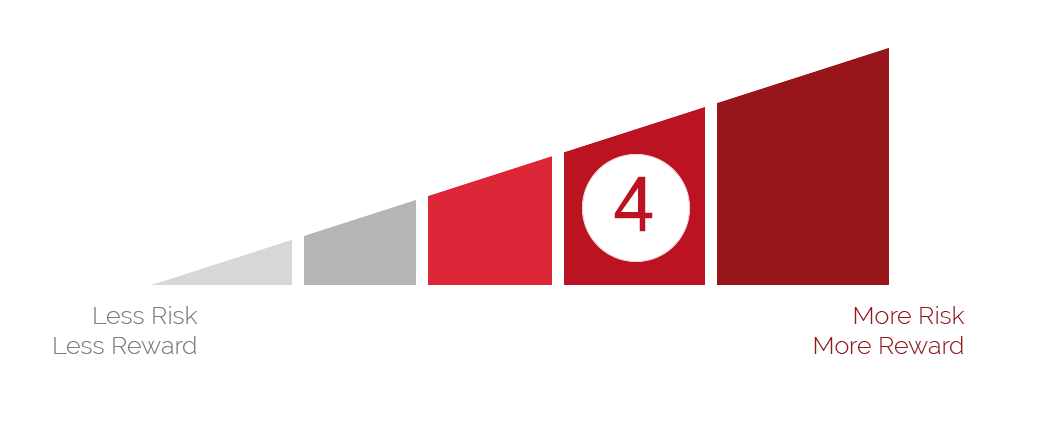
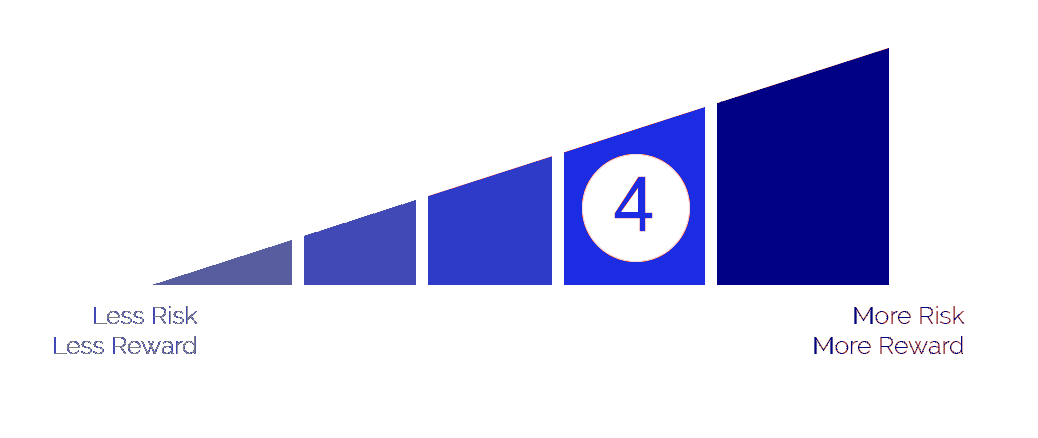
Updates

diff --git a/assets/styles.css b/assets/styles.css
@@ -3,7 +3,7 @@ body {
   height: 100%;
   margin: 0;
   padding: 0;
-  background-color: #fafafa;
+  background-color: #ffffff;
   font-size: 1.1rem;
   line-height: 1.3;
 }
@@ -18,7 +18,7 @@ body {
   padding: 0mm;
   margin: 10mm auto;
   border-radius: 5px;
-  background: white;
+  background: rgb(255, 255, 255);
   box-shadow: 0 0 10px lightgrey;
 }
 
@@ -157,11 +157,11 @@ li {
   padding: 30px;
   margin-bottom: 25px;
   border-radius: 1px;
-  background: #98151b;
+  background: #003399;/*#8b0202*/
   color: #ffffff;
 }
 .full-view-link {
-  background-color: rgb(152, 21, 27);
+  background-color: rgb(1, 10, 131);
   color: white !important;
   font-size: medium;
   padding: 15px 15px;
@@ -181,7 +181,7 @@ li {
   color: #3a3a3a;
   font-size: 40px !important;
   width: 80%;
-  border-left: 20px solid #98151b;
+  border-left: 20px solid #003399;/*#8b0202*/
   background: #ffffff;
   padding-left: 30px;
 }
@@ -192,7 +192,7 @@ li {
   left: 0;
   height: 20%;
   margin: 0mm;
-  border-left: 5px solid #98151b;
+  border-left: 5px solid #003399;/*#8b0202*/
   background: #ffffff;
   padding-top: 1px;
   padding-bottom: 1px;
@@ -207,7 +207,7 @@ li {
 }
 
 a:link {
-  color: #696969;
+  color:#003399;/*#8b0202*/;
   text-decoration: none;
 }
 
@@ -235,7 +235,7 @@ a:active {
 
 .tab {
   border-style: solid;
-  border-color: rgb(0, 0, 0, 0.2);
+  border-color: #003399;/*#8b0202*/;
   border-bottom-style: none;
   border-top-style: none;
   border-right-style: none;
@@ -255,7 +255,7 @@ a:active {
 
 .tablast {
   border-style: solid;
-  border-color: rgb(0, 0, 0, 0.2);
+  border-color: #003399;/*#8b0202*/;
   border-bottom-style: none;
   border-top-style: none;
   color: black;
@@ -308,7 +308,7 @@ a:active {
   .main-title {
     width: 55%;
     padding-left: 15px;
-    border-left: 15px solid #98151b;
+    border-left: 15px solid #1c0fd3;  
   }
   .five.columns {
     width: 45%;

diff --git a/assets/base.css b/assets/base.css
@@ -71,17 +71,17 @@ p {
 }
 
 .gs-text-header {
-  background: #c41230 !important;
+  background: #cbee05 !important;
   -webkit-print-color-adjust: exact;
 }
 
 .gs-table-header {
-  background: #c41230 !important;
+  background: #3312c4 !important;
   -webkit-print-color-adjust: exact;
 }
 
 .gs-accent-header {
-  background: #65201f !important;
+  background: #2d09fa !important;
   -webkit-print-color-adjust: exact;
 }
 

diff --git a/pages/overview.py b/pages/overview.py
@@ -44,6 +44,8 @@ def create_layout(app):
                                     considered a core equity holding in a portfolio.",
                                         style={"color": "#ffffff"},
                                         className="row",
+                                        
+                                        
                                     ),
                                 ],
                                 className="product",
@@ -89,7 +91,7 @@ def create_layout(app):
                                                         "11.11",
                                                     ],
                                                     marker={
-                                                        "color": "#97151c",
+                                                        "color":"#003399", #"#8b0202",
                                                         "line": {
                                                             "color": "rgb(255, 255, 255)",
                                                             "width": 2,
@@ -112,7 +114,7 @@ def create_layout(app):
                                                         "8.50",
                                                     ],
                                                     marker={
-                                                        "color": "#dddddd",
+                                                        "color":"#00ffff", #"#dddddd",
                                                         "line": {
                                                             "color": "rgb(255, 255, 255)",
                                                             "width": 2,
@@ -209,7 +211,7 @@ def create_layout(app):
                                                         "20500",
                                                         "24000",
                                                     ],
-                                                    line={"color": "#97151c"},
+                                                    line={"color":"#003399"}, #"#97151c"
                                                     mode="lines",
                                                     name="Calibre Index Fund Inv",
                                                 )

diff --git a/utils.py b/utils.py
@@ -24,11 +24,11 @@ def get_header(app):
                             id="learn-more-button",
                             style={"margin-left": "-10px"},
                         ),
-                        href="https://plotly.com/get-demo/",
+                        href="https://custech2.com",#"https://plotly.com/get-demo/",
                     ),
                     html.A(
                         html.Button("Source Code", id="learn-more-button"),
-                        href="https://github.com/plotly/dash-sample-apps/tree/main/apps/dash-financial-report",
+                        href="https://google.com", #"https://github.com/plotly/dash-sample-apps/tree/main/apps/dash-financial-report",
                     ),
                 ],
                 className="row",

diff --git a/pages/pricePerformance.py b/pages/pricePerformance.py
@@ -63,7 +63,7 @@ def create_layout(app):
                                                 go.Scatter(
                                                     x=df_graph["Date"],
                                                     y=df_graph["Calibre Index Fund"],
-                                                    line={"color": "#97151c"},
+                                                    line={"color": "#003399"},#"#97151c"
                                                     mode="lines",
                                                     name="Calibre Index Fund",
                                                 ),

diff --git a/pages/portfolioManagement.py b/pages/portfolioManagement.py
@@ -193,7 +193,7 @@ def create_layout(app):
                                                         "yref": "paper",
                                                     },
                                                     {
-                                                        "fillcolor": " #97151c",
+                                                        "fillcolor": " #003399",
                                                         "line": {
                                                             "color": "#ffffff",
                                                             "width": 0,

diff --git a/pages/feesMins.py b/pages/feesMins.py
@@ -57,7 +57,7 @@ def create_layout(app):
                                                 go.Bar(
                                                     x=["Category Average", "This fund"],
                                                     y=["2242", "329"],
-                                                    marker={"color": "#97151c"},
+                                                    marker={"color": "#003399"},#"#97151c"
                                                     name="A",
                                                 ),
                                                 go.Bar(
